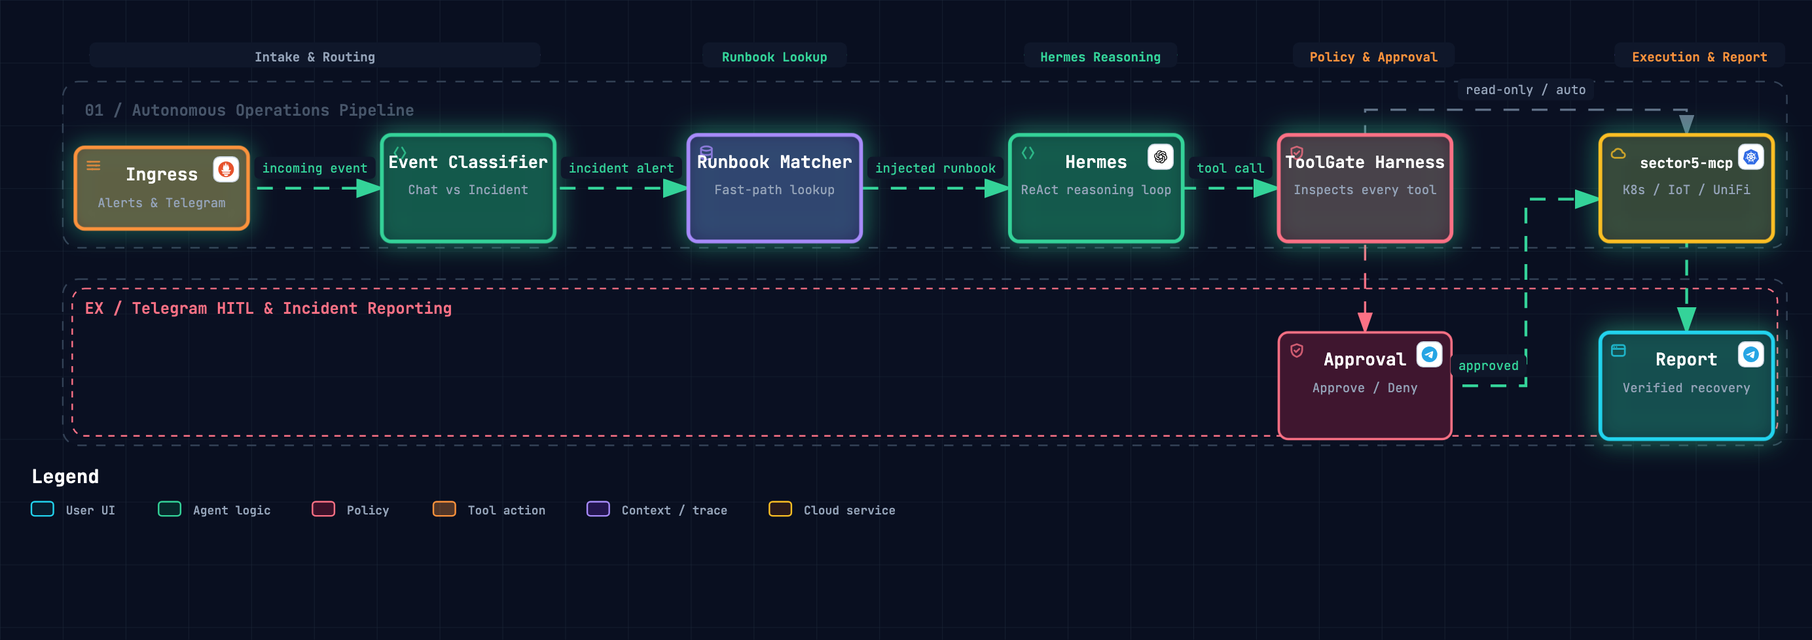
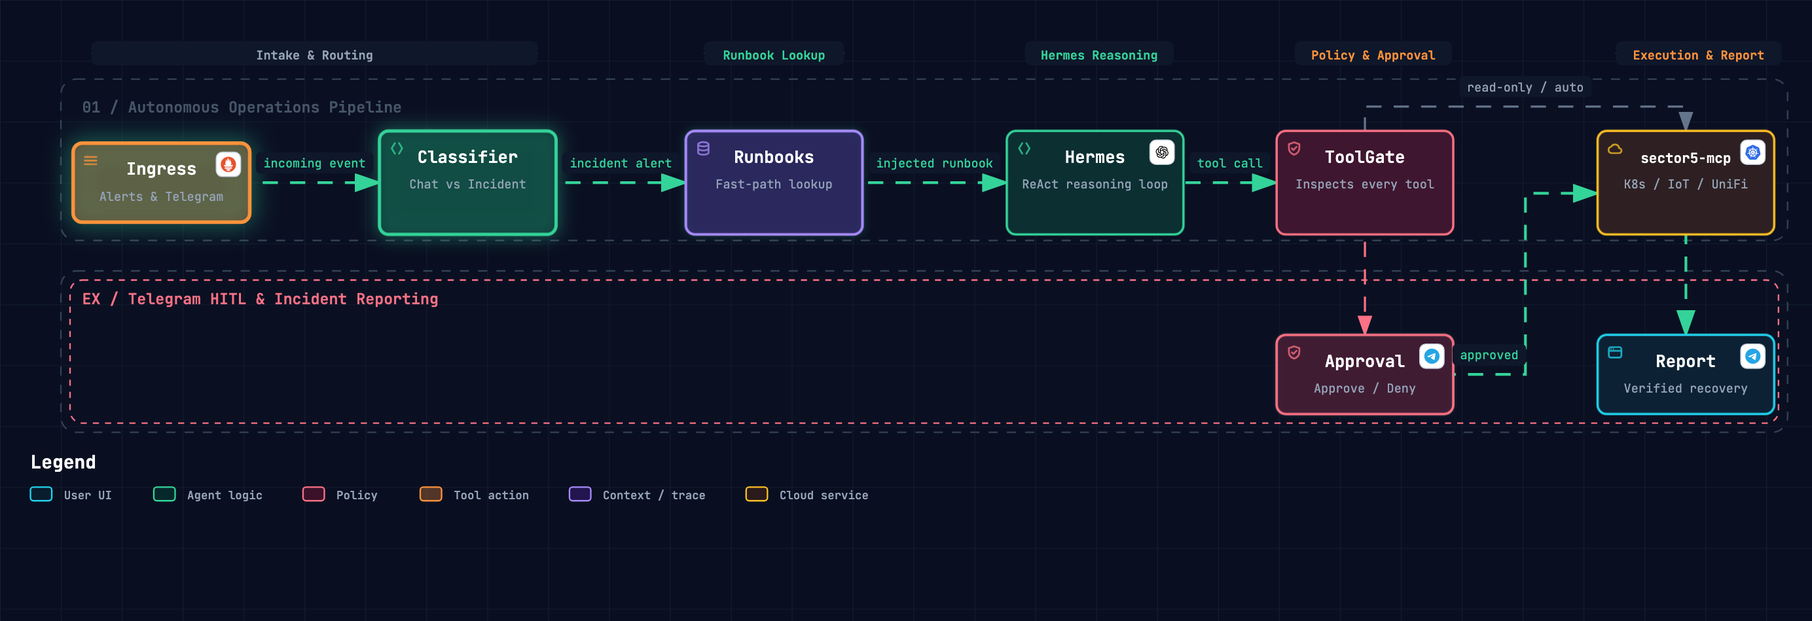
docs(diagrams): fix node text overlap and lane containment overflow

diff --git a/docs/diagrams/lyoko-workflow.html b/docs/diagrams/lyoko-workflow.html
@@ -5000,7 +5000,7 @@
     <!-- Main Diagram -->
     <div class="diagram-container" data-detail-level="read"
          data-preset-badge-editorial-plate="ARCHIFY / PLATE 04">
-      <svg viewBox="0 0 1154 408" role="img" lang="en" aria-labelledby="archify-diagram-title archify-diagram-description" data-animation="trace" data-preset="classic" data-quality-profile="showcase">
+      <svg viewBox="0 0 1190 408" role="img" lang="en" aria-labelledby="archify-diagram-title archify-diagram-description" data-animation="trace" data-preset="classic" data-quality-profile="showcase">
         <title id="archify-diagram-title">LYOKO Autonomous AIOps Workflow</title>
         <desc id="archify-diagram-description">A workflow diagram generated by Archify.</desc>
         <!-- Definitions -->
@@ -5026,199 +5026,197 @@
         <rect width="100%" height="100%" fill="url(#grid)" />
 
         <!-- Swimlanes -->
-        <rect data-graph-role="structural-frame" data-composition-frame-kind="lane" data-composition-frame-id="lane-0" x="40" y="52" width="1098" height="106" rx="10" class="c-lane" stroke-width="1"/>
+        <rect data-graph-role="structural-frame" data-composition-frame-kind="lane" data-composition-frame-id="lane-0" x="40" y="52" width="1134" height="106" rx="10" class="c-lane" stroke-width="1"/>
         <text x="54" y="74" class="t-dim" font-size="10" font-weight="600">01 / Autonomous Operations Pipeline</text>
 
-        <rect data-graph-role="structural-frame" data-composition-frame-kind="lane" data-composition-frame-id="lane-1" x="40" y="178" width="1098" height="106" rx="10" class="c-lane" stroke-width="1"/>
-        <rect data-graph-role="structural-frame" data-composition-frame-kind="exception-lane" data-composition-frame-id="lane-1-exception" x="46" y="184" width="1086" height="94" rx="8" class="c-security-group" stroke-width="1"/>
+        <rect data-graph-role="structural-frame" data-composition-frame-kind="lane" data-composition-frame-id="lane-1" x="40" y="178" width="1134" height="106" rx="10" class="c-lane" stroke-width="1"/>
+        <rect data-graph-role="structural-frame" data-composition-frame-kind="exception-lane" data-composition-frame-id="lane-1-exception" x="46" y="184" width="1122" height="94" rx="8" class="c-security-group" stroke-width="1"/>
         <text x="54" y="200" class="t-security" font-size="10" font-weight="600">EX / Telegram HITL &amp; Incident Reporting</text>
 
         <!-- Phase headers -->
-        <line x1="57" y1="35" x2="344.2" y2="35" class="a-default" stroke-width="1.1"/>
-        <rect x="57" y="27" width="287.2" height="16" rx="4" class="c-mask"/>
-        <text x="200.6" y="39" class="t-muted" font-size="8" font-weight="600" text-anchor="middle">Intake &amp; Routing</text>
-        <line x1="447.4" y1="35" x2="539.4" y2="35" class="a-emphasis" stroke-width="1.1"/>
-        <rect x="447.4" y="27" width="92" height="16" rx="4" class="c-mask"/>
-        <text x="493.4" y="39" class="t-backend" font-size="8" font-weight="600" text-anchor="middle">Runbook Lookup</text>
-        <line x1="652.2" y1="35" x2="749.8000000000001" y2="35" class="a-emphasis" stroke-width="1.1"/>
-        <rect x="652.2" y="27" width="97.6" height="16" rx="4" class="c-mask"/>
-        <text x="701" y="39" class="t-backend" font-size="8" font-weight="600" text-anchor="middle">Hermes Reasoning</text>
-        <line x1="823.4000000000001" y1="35" x2="926.6000000000001" y2="35" class="a-dashed" stroke-width="1.1"/>
-        <rect x="823.4000000000001" y="27" width="103.19999999999999" height="16" rx="4" class="c-mask"/>
-        <text x="875.0000000000001" y="39" class="t-messagebus" font-size="8" font-weight="600" text-anchor="middle">Policy &amp; Approval</text>
-        <line x1="1028.2" y1="35" x2="1137" y2="35" class="a-dashed" stroke-width="1.1"/>
-        <rect x="1028.2" y="27" width="108.8" height="16" rx="4" class="c-mask"/>
-        <text x="1082.6000000000001" y="39" class="t-messagebus" font-size="8" font-weight="600" text-anchor="middle">Execution &amp; Report</text>
+        <line x1="60" y1="35" x2="353.2" y2="35" class="a-default" stroke-width="1.1"/>
+        <rect x="60" y="27" width="293.2" height="16" rx="4" class="c-mask"/>
+        <text x="206.6" y="39" class="t-muted" font-size="8" font-weight="600" text-anchor="middle">Intake &amp; Routing</text>
+        <line x1="462.4" y1="35" x2="554.4" y2="35" class="a-emphasis" stroke-width="1.1"/>
+        <rect x="462.4" y="27" width="92" height="16" rx="4" class="c-mask"/>
+        <text x="508.4" y="39" class="t-backend" font-size="8" font-weight="600" text-anchor="middle">Runbook Lookup</text>
+        <line x1="673.2" y1="35" x2="770.8000000000001" y2="35" class="a-emphasis" stroke-width="1.1"/>
+        <rect x="673.2" y="27" width="97.6" height="16" rx="4" class="c-mask"/>
+        <text x="722" y="39" class="t-backend" font-size="8" font-weight="600" text-anchor="middle">Hermes Reasoning</text>
+        <line x1="850.4000000000001" y1="35" x2="953.6000000000001" y2="35" class="a-dashed" stroke-width="1.1"/>
+        <rect x="850.4000000000001" y="27" width="103.19999999999999" height="16" rx="4" class="c-mask"/>
+        <text x="902.0000000000001" y="39" class="t-messagebus" font-size="8" font-weight="600" text-anchor="middle">Policy &amp; Approval</text>
+        <line x1="1061.2" y1="35" x2="1170" y2="35" class="a-dashed" stroke-width="1.1"/>
+        <rect x="1061.2" y="27" width="108.8" height="16" rx="4" class="c-mask"/>
+        <text x="1115.6000000000001" y="39" class="t-messagebus" font-size="8" font-weight="600" text-anchor="middle">Execution &amp; Report</text>
 
         <!-- Workflow groups -->
 
 
         <!-- Edge paths -->
-        <path data-edge-from="approval" data-edge-to="mcp_gateway" data-edge-label="approved" data-edge-key="0" data-edge-id="e_approved" data-composition-points="924.4000000000001,246;971.8000000000001,246;971.8000000000001,127;1019.2,127" d="M 924.4000000000001 246 L 971.8000000000001 246 L 971.8000000000001 127 L 1019.2 127" class="a-emphasis" data-animate="edge" style="--step:7" stroke-width="1.8" marker-end="url(#arrowhead-emphasis)"/>
-        <path data-edge-from="event_in" data-edge-to="router" data-edge-label="incoming event" data-edge-key="1" data-edge-id="e_ingress" data-composition-points="158,120;243.2,120" d="M 158 120 L 243.2 120" class="a-emphasis" data-animate="edge" style="--step:0" stroke-width="1.8" marker-end="url(#arrowhead-emphasis)"/>
-        <path data-edge-from="toolgate" data-edge-to="approval" data-edge-key="2" data-edge-id="e_needs_approval" data-composition-points="869.4000000000001,154;869.4000000000001,212" d="M 869.4000000000001 154 L 869.4000000000001 212" class="a-security" data-animate="edge" style="--step:9" stroke-width="1.4" marker-end="url(#arrowhead-security)"/>
-        <path data-edge-from="toolgate" data-edge-to="mcp_gateway" data-edge-label="read-only / auto" data-edge-key="3" data-edge-id="e_readonly" data-composition-points="869.4000000000001,86;869.4000000000001,70;1074.2,70;1074.2,86" d="M 869.4000000000001 86 L 869.4000000000001 70 L 1074.2 70 L 1074.2 86" class="a-default" data-animate="edge" style="--step:4" stroke-width="1.4" marker-end="url(#arrowhead)"/>
-        <path data-edge-from="mcp_gateway" data-edge-to="report" data-edge-key="4" data-edge-id="e_report" data-composition-points="1074.2,154;1074.2,212" d="M 1074.2 154 L 1074.2 212" class="a-emphasis" data-animate="edge" style="--step:5" stroke-width="1.8" marker-end="url(#arrowhead-emphasis)"/>
-        <path data-edge-from="runbooks" data-edge-to="hermes" data-edge-label="injected runbook" data-edge-key="5" data-edge-id="e_runbook" data-composition-points="548.4,120;643.2,120" d="M 548.4 120 L 643.2 120" class="a-emphasis" data-animate="edge" style="--step:2" stroke-width="1.8" marker-end="url(#arrowhead-emphasis)"/>
-        <path data-edge-from="hermes" data-edge-to="toolgate" data-edge-label="tool call" data-edge-key="6" data-edge-id="e_toolcall" data-composition-points="753.2,120;814.4000000000001,120" d="M 753.2 120 L 814.4000000000001 120" class="a-emphasis" data-animate="edge" style="--step:3" stroke-width="1.8" marker-end="url(#arrowhead-emphasis)"/>
-        <path data-edge-from="router" data-edge-to="runbooks" data-edge-label="incident alert" data-edge-key="7" data-edge-id="e_triage" data-composition-points="353.2,120;438.4,120" d="M 353.2 120 L 438.4 120" class="a-emphasis" data-animate="edge" style="--step:1" stroke-width="1.8" marker-end="url(#arrowhead-emphasis)"/>
+        <path data-edge-from="approval" data-edge-to="mcp_gateway" data-edge-label="approved" data-edge-key="0" data-edge-id="e_approved" data-composition-points="954.4000000000001,246;1001.8000000000001,246;1001.8000000000001,127;1049.2,127" d="M 954.4000000000001 246 L 1001.8000000000001 246 L 1001.8000000000001 127 L 1049.2 127" class="a-emphasis" data-animate="edge" style="--step:7" stroke-width="1.8" marker-end="url(#arrowhead-emphasis)"/>
+        <path data-edge-from="event_in" data-edge-to="router" data-edge-label="incoming event" data-edge-key="1" data-edge-id="e_ingress" data-composition-points="164,120;249.2,120" d="M 164 120 L 249.2 120" class="a-emphasis" data-animate="edge" style="--step:0" stroke-width="1.8" marker-end="url(#arrowhead-emphasis)"/>
+        <path data-edge-from="toolgate" data-edge-to="approval" data-edge-key="2" data-edge-id="e_needs_approval" data-composition-points="896.4000000000001,154;896.4000000000001,220" d="M 896.4000000000001 154 L 896.4000000000001 220" class="a-security" data-animate="edge" style="--step:9" stroke-width="1.4" marker-end="url(#arrowhead-security)"/>
+        <path data-edge-from="toolgate" data-edge-to="mcp_gateway" data-edge-label="read-only / auto" data-edge-key="3" data-edge-id="e_readonly" data-composition-points="896.4000000000001,86;896.4000000000001,70;1107.2,70;1107.2,86" d="M 896.4000000000001 86 L 896.4000000000001 70 L 1107.2 70 L 1107.2 86" class="a-default" data-animate="edge" style="--step:4" stroke-width="1.4" marker-end="url(#arrowhead)"/>
+        <path data-edge-from="mcp_gateway" data-edge-to="report" data-edge-key="4" data-edge-id="e_report" data-composition-points="1107.2,154;1107.2,220" d="M 1107.2 154 L 1107.2 220" class="a-emphasis" data-animate="edge" style="--step:5" stroke-width="1.8" marker-end="url(#arrowhead-emphasis)"/>
+        <path data-edge-from="runbooks" data-edge-to="hermes" data-edge-label="injected runbook" data-edge-key="5" data-edge-id="e_runbook" data-composition-points="566.4,120;661.2,120" d="M 566.4 120 L 661.2 120" class="a-emphasis" data-animate="edge" style="--step:2" stroke-width="1.8" marker-end="url(#arrowhead-emphasis)"/>
+        <path data-edge-from="hermes" data-edge-to="toolgate" data-edge-label="tool call" data-edge-key="6" data-edge-id="e_toolcall" data-composition-points="777.2,120;838.4000000000001,120" d="M 777.2 120 L 838.4000000000001 120" class="a-emphasis" data-animate="edge" style="--step:3" stroke-width="1.8" marker-end="url(#arrowhead-emphasis)"/>
+        <path data-edge-from="router" data-edge-to="runbooks" data-edge-label="incident alert" data-edge-key="7" data-edge-id="e_triage" data-composition-points="365.2,120;450.4,120" d="M 365.2 120 L 450.4 120" class="a-emphasis" data-animate="edge" style="--step:1" stroke-width="1.8" marker-end="url(#arrowhead-emphasis)"/>
 
         <!-- Nodes -->
         <g id="node-event_in" data-node-id="event_in" data-node-label="Ingress" tabindex="0" role="button" aria-label="Focus Ingress, Alerts &amp; Telegram, Autonomous Operations Pipeline › Intake &amp; Routing, Prometheus" aria-pressed="false" data-node-kind="messagebus" data-node-sublabel="Alerts &amp; Telegram" data-node-context="Autonomous Operations Pipeline › Intake &amp; Routing" data-node-brand="Prometheus" data-node-brand-id="prometheus" data-node-brand-status="preset" data-node-brand-source="https://prometheus.io">
           <title>Ingress · Alerts &amp; Telegram · Autonomous Operations Pipeline › Intake &amp; Routing · Prometheus</title>
-          <rect x="48" y="94" width="110" height="52" rx="6" class="c-mask"/>
-          <rect x="48" y="94" width="110" height="52" rx="6" class="c-messagebus" data-animate="node" style="--step:0" stroke-width="1.5"/>
+          <rect x="48" y="94" width="116" height="52" rx="6" class="c-mask"/>
+          <rect x="48" y="94" width="116" height="52" rx="6" class="c-messagebus" data-animate="node" style="--step:0" stroke-width="1.5"/>
           <g aria-hidden="true" data-semantic-sigil="messagebus" class="semantic-sigil s-messagebus" transform="translate(54 100) scale(0.6875)">
             <path d="M2.5 4.5h11M2.5 8h11M2.5 11.5h11"/>
             <circle cx="5" cy="4.5" r="1" class="sigil-fill"/>
             <circle cx="10.5" cy="8" r="1" class="sigil-fill"/>
             <circle cx="7" cy="11.5" r="1" class="sigil-fill"/>
           </g>
-          <g aria-hidden="true" data-brand-mark="prometheus" data-brand-title="Prometheus" data-brand-status="preset" data-brand-source="https://prometheus.io" class="brand-mark" transform="translate(136 100)">
+          <g aria-hidden="true" data-brand-mark="prometheus" data-brand-title="Prometheus" data-brand-status="preset" data-brand-source="https://prometheus.io" class="brand-mark" transform="translate(142 100)">
             <rect width="16" height="16" rx="4" class="brand-mark-badge"/>
             <path d="M12 0C5.373 0 0 5.372 0 12c0 6.627 5.373 12 12 12s12-5.373 12-12c0-6.628-5.373-12-12-12zm0 22.46c-1.885 0-3.414-1.26-3.414-2.814h6.828c0 1.553-1.528 2.813-3.414 2.813zm5.64-3.745H6.36v-2.046h11.28v2.046zm-.04-3.098H6.391c-.037-.043-.075-.086-.111-.13-1.155-1.401-1.427-2.133-1.69-2.879-.005-.025 1.4.287 2.395.511 0 0 .513.119 1.262.255-.72-.843-1.147-1.915-1.147-3.01 0-2.406 1.845-4.508 1.18-6.207.648.053 1.34 1.367 1.387 3.422.689-.951.977-2.69.977-3.755 0-1.103.727-2.385 1.454-2.429-.648 1.069.168 1.984.894 4.256.272.854.237 2.29.447 3.201.07-1.892.395-4.652 1.595-5.605-.529 1.2.079 2.702.494 3.424.671 1.164 1.078 2.047 1.078 3.716a4.642 4.642 0 01-1.11 2.996c.792-.149 1.34-.283 1.34-.283l2.573-.502s-.374 1.538-1.81 3.019z" transform="translate(3 3) scale(0.4166666666666667)" fill="#E6522C"/>
             <rect width="16" height="16" rx="4" class="brand-mark-frame"/>
           </g>
-          <text data-node-label="" data-detail-anchor="" x="103" y="115" class="t-primary" font-size="11" font-weight="600" text-anchor="middle">Ingress</text>
-          <text data-detail="context" x="103" y="132" class="t-muted" font-size="8" text-anchor="middle">Alerts &amp; Telegram</text>
+          <text data-node-label="" data-detail-anchor="" x="106" y="115" class="t-primary" font-size="11" font-weight="600" text-anchor="middle">Ingress</text>
+          <text data-detail="context" x="106" y="132" class="t-muted" font-size="8" text-anchor="middle">Alerts &amp; Telegram</text>
         </g>
 
-        <g id="node-router" data-node-id="router" data-node-label="Event Classifier" tabindex="0" role="button" aria-label="Focus Event Classifier, Chat vs Incident, Autonomous Operations Pipeline › Intake &amp; Routing" aria-pressed="false" data-node-kind="backend" data-node-sublabel="Chat vs Incident" data-node-tag="Deterministic / LLM" data-node-context="Autonomous Operations Pipeline › Intake &amp; Routing">
-          <title>Event Classifier · Chat vs Incident · Autonomous Operations Pipeline › Intake &amp; Routing · Deterministic / LLM</title>
-          <rect x="243.2" y="86" width="110" height="68" rx="6" class="c-mask"/>
-          <rect x="243.2" y="86" width="110" height="68" rx="6" class="c-backend" data-animate="node" style="--step:1" stroke-width="1.5"/>
-          <g aria-hidden="true" data-semantic-sigil="backend" class="semantic-sigil s-backend" transform="translate(249.2 92) scale(0.6875)">
+        <g id="node-router" data-node-id="router" data-node-label="Classifier" tabindex="0" role="button" aria-label="Focus Classifier, Chat vs Incident, Autonomous Operations Pipeline › Intake &amp; Routing" aria-pressed="false" data-node-kind="backend" data-node-sublabel="Chat vs Incident" data-node-tag="Deterministic / LLM" data-node-context="Autonomous Operations Pipeline › Intake &amp; Routing">
+          <title>Classifier · Chat vs Incident · Autonomous Operations Pipeline › Intake &amp; Routing · Deterministic / LLM</title>
+          <rect x="249.2" y="86" width="116" height="68" rx="6" class="c-mask"/>
+          <rect x="249.2" y="86" width="116" height="68" rx="6" class="c-backend" data-animate="node" style="--step:1" stroke-width="1.5"/>
+          <g aria-hidden="true" data-semantic-sigil="backend" class="semantic-sigil s-backend" transform="translate(255.2 92) scale(0.6875)">
             <path d="M6 3 3 8l3 5M10 3l3 5-3 5"/>
           </g>
-          <text data-node-label="" data-detail-anchor="" x="298.2" y="107" class="t-primary" font-size="10.6" font-weight="600" text-anchor="middle">Event Classifier</text>
-          <text data-detail="context" x="298.2" y="124" class="t-muted" font-size="8" text-anchor="middle">Chat vs Incident</text>
-        <text data-detail="fine" x="298.2" y="142" class="t-backend" font-size="7" text-anchor="middle">Deterministic / LLM</text>
+          <text data-node-label="" data-detail-anchor="" x="307.2" y="107" class="t-primary" font-size="11" font-weight="600" text-anchor="middle">Classifier</text>
+          <text data-detail="context" x="307.2" y="124" class="t-muted" font-size="8" text-anchor="middle">Chat vs Incident</text>
+        <text data-detail="fine" x="307.2" y="142" class="t-backend" font-size="7" text-anchor="middle">Deterministic / LLM</text>
         </g>
 
-        <g id="node-runbooks" data-node-id="runbooks" data-node-label="Runbook Matcher" tabindex="0" role="button" aria-label="Focus Runbook Matcher, Fast-path lookup, Autonomous Operations Pipeline › Runbook Lookup" aria-pressed="false" data-node-kind="database" data-node-sublabel="Fast-path lookup" data-node-tag="Zero-LLM" data-node-context="Autonomous Operations Pipeline › Runbook Lookup">
-          <title>Runbook Matcher · Fast-path lookup · Autonomous Operations Pipeline › Runbook Lookup · Zero-LLM</title>
-          <rect x="438.4" y="86" width="110" height="68" rx="6" class="c-mask"/>
-          <rect x="438.4" y="86" width="110" height="68" rx="6" class="c-database" data-animate="node" style="--step:2" stroke-width="1.5"/>
-          <g aria-hidden="true" data-semantic-sigil="database" class="semantic-sigil s-database" transform="translate(444.4 92) scale(0.6875)">
+        <g id="node-runbooks" data-node-id="runbooks" data-node-label="Runbooks" tabindex="0" role="button" aria-label="Focus Runbooks, Fast-path lookup, Autonomous Operations Pipeline › Runbook Lookup" aria-pressed="false" data-node-kind="database" data-node-sublabel="Fast-path lookup" data-node-tag="Zero-LLM" data-node-context="Autonomous Operations Pipeline › Runbook Lookup">
+          <title>Runbooks · Fast-path lookup · Autonomous Operations Pipeline › Runbook Lookup · Zero-LLM</title>
+          <rect x="450.4" y="86" width="116" height="68" rx="6" class="c-mask"/>
+          <rect x="450.4" y="86" width="116" height="68" rx="6" class="c-database" data-animate="node" style="--step:2" stroke-width="1.5"/>
+          <g aria-hidden="true" data-semantic-sigil="database" class="semantic-sigil s-database" transform="translate(456.4 92) scale(0.6875)">
             <ellipse cx="8" cy="4" rx="5" ry="2"/>
             <path d="M3 4v8c0 1.1 2.2 2 5 2s5-.9 5-2V4M3 8c0 1.1 2.2 2 5 2s5-.9 5-2"/>
           </g>
-          <text data-node-label="" data-detail-anchor="" x="493.4" y="107" class="t-primary" font-size="11" font-weight="600" text-anchor="middle">Runbook Matcher</text>
-          <text data-detail="context" x="493.4" y="124" class="t-muted" font-size="8" text-anchor="middle">Fast-path lookup</text>
-        <text data-detail="fine" x="493.4" y="142" class="t-database" font-size="7" text-anchor="middle">Zero-LLM</text>
+          <text data-node-label="" data-detail-anchor="" x="508.4" y="107" class="t-primary" font-size="11" font-weight="600" text-anchor="middle">Runbooks</text>
+          <text data-detail="context" x="508.4" y="124" class="t-muted" font-size="8" text-anchor="middle">Fast-path lookup</text>
+        <text data-detail="fine" x="508.4" y="142" class="t-database" font-size="7" text-anchor="middle">Zero-LLM</text>
         </g>
 
         <g id="node-hermes" data-node-id="hermes" data-node-label="Hermes" tabindex="0" role="button" aria-label="Focus Hermes, ReAct reasoning loop, Autonomous Operations Pipeline › Hermes Reasoning, OpenAI" aria-pressed="false" data-node-kind="backend" data-node-sublabel="ReAct reasoning loop" data-node-tag="Autonomous SRE" data-node-context="Autonomous Operations Pipeline › Hermes Reasoning" data-node-brand="OpenAI" data-node-brand-id="openai" data-node-brand-status="preset" data-node-brand-source="https://openai.com/brand/">
           <title>Hermes · ReAct reasoning loop · Autonomous Operations Pipeline › Hermes Reasoning · Autonomous SRE · OpenAI</title>
-          <rect x="643.2" y="86" width="110" height="68" rx="6" class="c-mask"/>
-          <rect x="643.2" y="86" width="110" height="68" rx="6" class="c-backend" data-animate="node" style="--step:3" stroke-width="1.5"/>
-          <g aria-hidden="true" data-semantic-sigil="backend" class="semantic-sigil s-backend" transform="translate(649.2 92) scale(0.6875)">
+          <rect x="661.2" y="86" width="116" height="68" rx="6" class="c-mask"/>
+          <rect x="661.2" y="86" width="116" height="68" rx="6" class="c-backend" data-animate="node" style="--step:3" stroke-width="1.5"/>
+          <g aria-hidden="true" data-semantic-sigil="backend" class="semantic-sigil s-backend" transform="translate(667.2 92) scale(0.6875)">
             <path d="M6 3 3 8l3 5M10 3l3 5-3 5"/>
           </g>
-          <g aria-hidden="true" data-brand-mark="openai" data-brand-title="OpenAI" data-brand-status="preset" data-brand-source="https://openai.com/brand/" class="brand-mark" transform="translate(731.2 92)">
+          <g aria-hidden="true" data-brand-mark="openai" data-brand-title="OpenAI" data-brand-status="preset" data-brand-source="https://openai.com/brand/" class="brand-mark" transform="translate(755.2 92)">
             <rect width="16" height="16" rx="4" class="brand-mark-badge"/>
             <path d="M11.248 18.25q-.825 0-1.568-.314a4.3 4.3 0 0 1-1.32-.874 4 4 0 0 1-1.304.214 4 4 0 0 1-2.046-.544 4.27 4.27 0 0 1-1.518-1.485 4 4 0 0 1-.56-2.095q0-.48.131-1.04A4.4 4.4 0 0 1 2.04 10.71a4.07 4.07 0 0 1 .017-3.4 4.2 4.2 0 0 1 1.056-1.418 3.8 3.8 0 0 1 1.6-.842 3.9 3.9 0 0 1 .76-1.683q.593-.759 1.451-1.188a4.04 4.04 0 0 1 1.832-.429q.825 0 1.567.313.742.314 1.32.875a4 4 0 0 1 1.304-.215q1.106 0 2.046.545a4.14 4.14 0 0 1 1.501 1.485q.578.941.578 2.095 0 .48-.132 1.04.66.61 1.023 1.419.363.792.363 1.666 0 .892-.38 1.717a4.3 4.3 0 0 1-1.072 1.435 3.8 3.8 0 0 1-1.584.825 3.8 3.8 0 0 1-.775 1.683 4.06 4.06 0 0 1-1.436 1.188 4.04 4.04 0 0 1-1.832.429m-4.076-2.062q.825 0 1.435-.347l3.103-1.782a.36.36 0 0 0 .164-.313v-1.42L7.881 14.62a.67.67 0 0 1-.726 0l-3.118-1.798a.5.5 0 0 1-.017.115v.198q0 .841.396 1.551.413.693 1.139 1.089a3.2 3.2 0 0 0 1.617.412m.165-2.69a.4.4 0 0 0 .181.05q.083 0 .165-.05l1.238-.71-3.977-2.31a.7.7 0 0 1-.363-.643v-3.58q-.825.362-1.32 1.122a2.9 2.9 0 0 0-.495 1.65q0 .809.413 1.55.412.743 1.072 1.123zm3.91 3.663q.875 0 1.585-.396a2.96 2.96 0 0 0 1.534-2.64v-3.564a.32.32 0 0 0-.165-.297l-1.254-.726v4.604a.7.7 0 0 1-.363.643l-3.119 1.799a3 3 0 0 0 1.783.577m.627-6.039V8.878L10.01 7.822 8.129 8.878v2.244l1.881 1.056zM7.057 5.859a.7.7 0 0 1 .363-.644l3.119-1.798a3 3 0 0 0-1.782-.578q-.874 0-1.584.396A2.96 2.96 0 0 0 6.05 4.324a3.07 3.07 0 0 0-.396 1.551v3.547q0 .199.165.314l1.237.726zm8.383 7.887q.825-.364 1.303-1.123.495-.758.495-1.65a3.15 3.15 0 0 0-.412-1.55q-.413-.743-1.073-1.123l-3.086-1.782q-.099-.065-.181-.049a.3.3 0 0 0-.165.05l-1.238.692 3.993 2.327a.6.6 0 0 1 .264.264.64.64 0 0 1 .1.363zm-3.317-8.382a.63.63 0 0 1 .726 0l3.135 1.831v-.297q0-.792-.396-1.501a2.86 2.86 0 0 0-1.105-1.155q-.71-.43-1.65-.43-.825 0-1.436.347L8.294 5.941a.36.36 0 0 0-.165.314v1.418z" transform="translate(3 3) scale(0.5)" fill="#000000"/>
             <rect width="16" height="16" rx="4" class="brand-mark-frame"/>
           </g>
-          <text data-node-label="" data-detail-anchor="" x="698.2" y="107" class="t-primary" font-size="11" font-weight="600" text-anchor="middle">Hermes</text>
-          <text data-detail="context" x="698.2" y="124" class="t-muted" font-size="8" text-anchor="middle">ReAct reasoning loop</text>
-        <text data-detail="fine" x="698.2" y="142" class="t-backend" font-size="7" text-anchor="middle">Autonomous SRE</text>
+          <text data-node-label="" data-detail-anchor="" x="719.2" y="107" class="t-primary" font-size="11" font-weight="600" text-anchor="middle">Hermes</text>
+          <text data-detail="context" x="719.2" y="124" class="t-muted" font-size="8" text-anchor="middle">ReAct reasoning loop</text>
+        <text data-detail="fine" x="719.2" y="142" class="t-backend" font-size="7" text-anchor="middle">Autonomous SRE</text>
         </g>
 
-        <g id="node-toolgate" data-node-id="toolgate" data-node-label="ToolGate Harness" tabindex="0" role="button" aria-label="Focus ToolGate Harness, Inspects every tool, Autonomous Operations Pipeline › Policy &amp; Approval" aria-pressed="false" data-node-kind="security" data-node-sublabel="Inspects every tool" data-node-tag="Fail-closed" data-node-context="Autonomous Operations Pipeline › Policy &amp; Approval">
-          <title>ToolGate Harness · Inspects every tool · Autonomous Operations Pipeline › Policy &amp; Approval · Fail-closed</title>
-          <rect x="814.4000000000001" y="86" width="110" height="68" rx="6" class="c-mask"/>
-          <rect x="814.4000000000001" y="86" width="110" height="68" rx="6" class="c-security" data-animate="node" style="--step:4" stroke-width="1.5"/>
-          <g aria-hidden="true" data-semantic-sigil="security" class="semantic-sigil s-security" transform="translate(820.4000000000001 92) scale(0.6875)">
+        <g id="node-toolgate" data-node-id="toolgate" data-node-label="ToolGate" tabindex="0" role="button" aria-label="Focus ToolGate, Inspects every tool, Autonomous Operations Pipeline › Policy &amp; Approval" aria-pressed="false" data-node-kind="security" data-node-sublabel="Inspects every tool" data-node-tag="Fail-closed" data-node-context="Autonomous Operations Pipeline › Policy &amp; Approval">
+          <title>ToolGate · Inspects every tool · Autonomous Operations Pipeline › Policy &amp; Approval · Fail-closed</title>
+          <rect x="838.4000000000001" y="86" width="116" height="68" rx="6" class="c-mask"/>
+          <rect x="838.4000000000001" y="86" width="116" height="68" rx="6" class="c-security" data-animate="node" style="--step:4" stroke-width="1.5"/>
+          <g aria-hidden="true" data-semantic-sigil="security" class="semantic-sigil s-security" transform="translate(844.4000000000001 92) scale(0.6875)">
             <path d="M8 2.2 13 4v3.5c0 3.1-1.8 5.4-5 6.5-3.2-1.1-5-3.4-5-6.5V4Z"/>
             <path d="m5.8 8 1.5 1.5 3-3"/>
           </g>
-          <text data-node-label="" data-detail-anchor="" x="869.4000000000001" y="107" class="t-primary" font-size="10.6" font-weight="600" text-anchor="middle">ToolGate Harness</text>
-          <text data-detail="context" x="869.4000000000001" y="124" class="t-muted" font-size="8" text-anchor="middle">Inspects every tool</text>
-        <text data-detail="fine" x="869.4000000000001" y="142" class="t-security" font-size="7" text-anchor="middle">Fail-closed</text>
+          <text data-node-label="" data-detail-anchor="" x="896.4000000000001" y="107" class="t-primary" font-size="11" font-weight="600" text-anchor="middle">ToolGate</text>
+          <text data-detail="context" x="896.4000000000001" y="124" class="t-muted" font-size="8" text-anchor="middle">Inspects every tool</text>
+        <text data-detail="fine" x="896.4000000000001" y="142" class="t-security" font-size="7" text-anchor="middle">Fail-closed</text>
         </g>
 
         <g id="node-mcp_gateway" data-node-id="mcp_gateway" data-node-label="sector5-mcp" tabindex="0" role="button" aria-label="Focus sector5-mcp, K8s / IoT / UniFi, Autonomous Operations Pipeline › Execution &amp; Report, Kubernetes" aria-pressed="false" data-node-kind="cloud" data-node-sublabel="K8s / IoT / UniFi" data-node-tag="Unified gateway" data-node-context="Autonomous Operations Pipeline › Execution &amp; Report" data-node-brand="Kubernetes" data-node-brand-id="kubernetes" data-node-brand-status="preset" data-node-brand-source="https://github.com/kubernetes/kubernetes/tree/cac53883f4714452f3084a22e4be20d042a9df33/logo">
           <title>sector5-mcp · K8s / IoT / UniFi · Autonomous Operations Pipeline › Execution &amp; Report · Unified gateway · Kubernetes</title>
-          <rect x="1019.2" y="86" width="110" height="68" rx="6" class="c-mask"/>
-          <rect x="1019.2" y="86" width="110" height="68" rx="6" class="c-cloud" data-animate="node" style="--step:5" stroke-width="1.5"/>
-          <g aria-hidden="true" data-semantic-sigil="cloud" class="semantic-sigil s-cloud" transform="translate(1025.2 92) scale(0.6875)">
+          <rect x="1049.2" y="86" width="116" height="68" rx="6" class="c-mask"/>
+          <rect x="1049.2" y="86" width="116" height="68" rx="6" class="c-cloud" data-animate="node" style="--step:5" stroke-width="1.5"/>
+          <g aria-hidden="true" data-semantic-sigil="cloud" class="semantic-sigil s-cloud" transform="translate(1055.2 92) scale(0.6875)">
             <path d="M4.3 12.5h7.3a2.4 2.4 0 0 0 .2-4.8 4 4 0 0 0-7.5-1.3A3.1 3.1 0 0 0 4.3 12.5Z"/>
           </g>
-          <g aria-hidden="true" data-brand-mark="kubernetes" data-brand-title="Kubernetes" data-brand-status="preset" data-brand-source="https://github.com/kubernetes/kubernetes/tree/cac53883f4714452f3084a22e4be20d042a9df33/logo" class="brand-mark" transform="translate(1107.2 92)">
+          <g aria-hidden="true" data-brand-mark="kubernetes" data-brand-title="Kubernetes" data-brand-status="preset" data-brand-source="https://github.com/kubernetes/kubernetes/tree/cac53883f4714452f3084a22e4be20d042a9df33/logo" class="brand-mark" transform="translate(1143.2 92)">
             <rect width="16" height="16" rx="4" class="brand-mark-badge"/>
             <path d="M10.204 14.35l.007.01-.999 2.413a5.171 5.171 0 0 1-2.075-2.597l2.578-.437.004.005a.44.44 0 0 1 .484.606zm-.833-2.129a.44.44 0 0 0 .173-.756l.002-.011L7.585 9.7a5.143 5.143 0 0 0-.73 3.255l2.514-.725.002-.009zm1.145-1.98a.44.44 0 0 0 .699-.337l.01-.005.15-2.62a5.144 5.144 0 0 0-3.01 1.442l2.147 1.523.004-.002zm.76 2.75l.723.349.722-.347.18-.78-.5-.623h-.804l-.5.623.179.779zm1.5-3.095a.44.44 0 0 0 .7.336l.008.003 2.134-1.513a5.188 5.188 0 0 0-2.992-1.442l.148 2.615.002.001zm10.876 5.97l-5.773 7.181a1.6 1.6 0 0 1-1.248.594l-9.261.003a1.6 1.6 0 0 1-1.247-.596l-5.776-7.18a1.583 1.583 0 0 1-.307-1.34L2.1 5.573c.108-.47.425-.864.863-1.073L11.305.513a1.606 1.606 0 0 1 1.385 0l8.345 3.985c.438.209.755.604.863 1.073l2.062 8.955c.108.47-.005.963-.308 1.34zm-3.289-2.057c-.042-.01-.103-.026-.145-.034-.174-.033-.315-.025-.479-.038-.35-.037-.638-.067-.895-.148-.105-.04-.18-.165-.216-.216l-.201-.059a6.45 6.45 0 0 0-.105-2.332 6.465 6.465 0 0 0-.936-2.163c.052-.047.15-.133.177-.159.008-.09.001-.183.094-.282.197-.185.444-.338.743-.522.142-.084.273-.137.415-.242.032-.024.076-.062.11-.089.24-.191.295-.52.123-.736-.172-.216-.506-.236-.745-.045-.034.027-.08.062-.111.088-.134.116-.217.23-.33.35-.246.25-.45.458-.673.609-.097.056-.239.037-.303.033l-.19.135a6.545 6.545 0 0 0-4.146-2.003l-.012-.223c-.065-.062-.143-.115-.163-.25-.022-.268.015-.557.057-.905.023-.163.061-.298.068-.475.001-.04-.001-.099-.001-.142 0-.306-.224-.555-.5-.555-.275 0-.499.249-.499.555l.001.014c0 .041-.002.092 0 .128.006.177.044.312.067.475.042.348.078.637.056.906a.545.545 0 0 1-.162.258l-.012.211a6.424 6.424 0 0 0-4.166 2.003 8.373 8.373 0 0 1-.18-.128c-.09.012-.18.04-.297-.029-.223-.15-.427-.358-.673-.608-.113-.12-.195-.234-.329-.349-.03-.026-.077-.062-.111-.088a.594.594 0 0 0-.348-.132.481.481 0 0 0-.398.176c-.172.216-.117.546.123.737l.007.005.104.083c.142.105.272.159.414.242.299.185.546.338.743.522.076.082.09.226.1.288l.16.143a6.462 6.462 0 0 0-1.02 4.506l-.208.06c-.055.072-.133.184-.215.217-.257.081-.546.11-.895.147-.164.014-.305.006-.48.039-.037.007-.09.02-.133.03l-.004.002-.007.002c-.295.071-.484.342-.423.608.061.267.349.429.645.365l.007-.001.01-.003.129-.029c.17-.046.294-.113.448-.172.33-.118.604-.217.87-.256.112-.009.23.069.288.101l.217-.037a6.5 6.5 0 0 0 2.88 3.596l-.09.218c.033.084.069.199.044.282-.097.252-.263.517-.452.813-.091.136-.185.242-.268.399-.02.037-.045.095-.064.134-.128.275-.034.591.213.71.248.12.556-.007.69-.282v-.002c.02-.039.046-.09.062-.127.07-.162.094-.301.144-.458.132-.332.205-.68.387-.897.05-.06.13-.082.215-.105l.113-.205a6.453 6.453 0 0 0 4.609.012l.106.192c.086.028.18.042.256.155.136.232.229.507.342.84.05.156.074.295.145.457.016.037.043.09.062.129.133.276.442.402.69.282.247-.118.341-.435.213-.71-.02-.039-.045-.096-.065-.134-.083-.156-.177-.261-.268-.398-.19-.296-.346-.541-.443-.793-.04-.13.007-.21.038-.294-.018-.022-.059-.144-.083-.202a6.499 6.499 0 0 0 2.88-3.622c.064.01.176.03.213.038.075-.05.144-.114.28-.104.266.039.54.138.87.256.154.06.277.128.448.173.036.01.088.019.13.028l.009.003.007.001c.297.064.584-.098.645-.365.06-.266-.128-.537-.423-.608zM16.4 9.701l-1.95 1.746v.005a.44.44 0 0 0 .173.757l.003.01 2.526.728a5.199 5.199 0 0 0-.108-1.674A5.208 5.208 0 0 0 16.4 9.7zm-4.013 5.325a.437.437 0 0 0-.404-.232.44.44 0 0 0-.372.233h-.002l-1.268 2.292a5.164 5.164 0 0 0 3.326.003l-1.27-2.296h-.01zm1.888-1.293a.44.44 0 0 0-.27.036.44.44 0 0 0-.214.572l-.003.004 1.01 2.438a5.15 5.15 0 0 0 2.081-2.615l-2.6-.44-.004.005z" transform="translate(3 3) scale(0.4166666666666667)" fill="#326CE5"/>
             <rect width="16" height="16" rx="4" class="brand-mark-frame"/>
           </g>
-          <text data-node-label="" data-detail-anchor="" x="1074.2" y="107" class="t-primary" font-size="9" font-weight="600" text-anchor="middle">sector5-mcp</text>
-          <text data-detail="context" x="1074.2" y="124" class="t-muted" font-size="8" text-anchor="middle">K8s / IoT / UniFi</text>
-        <text data-detail="fine" x="1074.2" y="142" class="t-cloud" font-size="7" text-anchor="middle">Unified gateway</text>
+          <text data-node-label="" data-detail-anchor="" x="1107.2" y="107" class="t-primary" font-size="9" font-weight="600" text-anchor="middle">sector5-mcp</text>
+          <text data-detail="context" x="1107.2" y="124" class="t-muted" font-size="8" text-anchor="middle">K8s / IoT / UniFi</text>
+        <text data-detail="fine" x="1107.2" y="142" class="t-cloud" font-size="7" text-anchor="middle">Unified gateway</text>
         </g>
 
-        <g id="node-approval" data-node-id="approval" data-node-label="Approval" tabindex="0" role="button" aria-label="Focus Approval, Approve / Deny, Telegram HITL &amp; Incident Reporting › Policy &amp; Approval, Telegram" aria-pressed="false" data-node-kind="security" data-node-sublabel="Approve / Deny" data-node-tag="Operator buttons" data-node-context="Telegram HITL &amp; Incident Reporting › Policy &amp; Approval" data-node-brand="Telegram" data-node-brand-id="telegram" data-node-brand-status="preset" data-node-brand-source="https://telegram.org/tour/screenshots">
-          <title>Approval · Approve / Deny · Telegram HITL &amp; Incident Reporting › Policy &amp; Approval · Operator buttons · Telegram</title>
-          <rect x="814.4000000000001" y="212" width="110" height="68" rx="6" class="c-mask"/>
-          <rect x="814.4000000000001" y="212" width="110" height="68" rx="6" class="c-security" data-animate="node" style="--step:12" stroke-width="1.5"/>
-          <g aria-hidden="true" data-semantic-sigil="security" class="semantic-sigil s-security" transform="translate(820.4000000000001 218) scale(0.6875)">
+        <g id="node-approval" data-node-id="approval" data-node-label="Approval" tabindex="0" role="button" aria-label="Focus Approval, Approve / Deny, Telegram HITL &amp; Incident Reporting › Policy &amp; Approval, Telegram" aria-pressed="false" data-node-kind="security" data-node-sublabel="Approve / Deny" data-node-context="Telegram HITL &amp; Incident Reporting › Policy &amp; Approval" data-node-brand="Telegram" data-node-brand-id="telegram" data-node-brand-status="preset" data-node-brand-source="https://telegram.org/tour/screenshots">
+          <title>Approval · Approve / Deny · Telegram HITL &amp; Incident Reporting › Policy &amp; Approval · Telegram</title>
+          <rect x="838.4000000000001" y="220" width="116" height="52" rx="6" class="c-mask"/>
+          <rect x="838.4000000000001" y="220" width="116" height="52" rx="6" class="c-security" data-animate="node" style="--step:12" stroke-width="1.5"/>
+          <g aria-hidden="true" data-semantic-sigil="security" class="semantic-sigil s-security" transform="translate(844.4000000000001 226) scale(0.6875)">
             <path d="M8 2.2 13 4v3.5c0 3.1-1.8 5.4-5 6.5-3.2-1.1-5-3.4-5-6.5V4Z"/>
             <path d="m5.8 8 1.5 1.5 3-3"/>
           </g>
-          <g aria-hidden="true" data-brand-mark="telegram" data-brand-title="Telegram" data-brand-status="preset" data-brand-source="https://telegram.org/tour/screenshots" class="brand-mark" transform="translate(902.4000000000001 218)">
+          <g aria-hidden="true" data-brand-mark="telegram" data-brand-title="Telegram" data-brand-status="preset" data-brand-source="https://telegram.org/tour/screenshots" class="brand-mark" transform="translate(932.4000000000001 226)">
             <rect width="16" height="16" rx="4" class="brand-mark-badge"/>
             <path d="M11.944 0A12 12 0 0 0 0 12a12 12 0 0 0 12 12 12 12 0 0 0 12-12A12 12 0 0 0 12 0a12 12 0 0 0-.056 0zm4.962 7.224c.1-.002.321.023.465.14a.506.506 0 0 1 .171.325c.016.093.036.306.02.472-.18 1.898-.962 6.502-1.36 8.627-.168.9-.499 1.201-.82 1.23-.696.065-1.225-.46-1.9-.902-1.056-.693-1.653-1.124-2.678-1.8-1.185-.78-.417-1.21.258-1.91.177-.184 3.247-2.977 3.307-3.23.007-.032.014-.15-.056-.212s-.174-.041-.249-.024c-.106.024-1.793 1.14-5.061 3.345-.48.33-.913.49-1.302.48-.428-.008-1.252-.241-1.865-.44-.752-.245-1.349-.374-1.297-.789.027-.216.325-.437.893-.663 3.498-1.524 5.83-2.529 6.998-3.014 3.332-1.386 4.025-1.627 4.476-1.635z" transform="translate(3 3) scale(0.4166666666666667)" fill="#26A5E4"/>
             <rect width="16" height="16" rx="4" class="brand-mark-frame"/>
           </g>
-          <text data-node-label="" data-detail-anchor="" x="869.4000000000001" y="233" class="t-primary" font-size="11" font-weight="600" text-anchor="middle">Approval</text>
-          <text data-detail="context" x="869.4000000000001" y="250" class="t-muted" font-size="8" text-anchor="middle">Approve / Deny</text>
-        <text data-detail="fine" x="869.4000000000001" y="268" class="t-security" font-size="7" text-anchor="middle">Operator buttons</text>
+          <text data-node-label="" data-detail-anchor="" x="896.4000000000001" y="241" class="t-primary" font-size="11" font-weight="600" text-anchor="middle">Approval</text>
+          <text data-detail="context" x="896.4000000000001" y="258" class="t-muted" font-size="8" text-anchor="middle">Approve / Deny</text>
         </g>
 
-        <g id="node-report" data-node-id="report" data-node-label="Report" tabindex="0" role="button" aria-label="Focus Report, Verified recovery, Telegram HITL &amp; Incident Reporting › Execution &amp; Report, Telegram" aria-pressed="false" data-node-kind="frontend" data-node-sublabel="Verified recovery" data-node-tag="Langfuse trace" data-node-context="Telegram HITL &amp; Incident Reporting › Execution &amp; Report" data-node-brand="Telegram" data-node-brand-id="telegram" data-node-brand-status="preset" data-node-brand-source="https://telegram.org/tour/screenshots">
-          <title>Report · Verified recovery · Telegram HITL &amp; Incident Reporting › Execution &amp; Report · Langfuse trace · Telegram</title>
-          <rect x="1019.2" y="212" width="110" height="68" rx="6" class="c-mask"/>
-          <rect x="1019.2" y="212" width="110" height="68" rx="6" class="c-frontend" data-animate="node" style="--step:6" stroke-width="1.5"/>
-          <g aria-hidden="true" data-semantic-sigil="frontend" class="semantic-sigil s-frontend" transform="translate(1025.2 218) scale(0.6875)">
+        <g id="node-report" data-node-id="report" data-node-label="Report" tabindex="0" role="button" aria-label="Focus Report, Verified recovery, Telegram HITL &amp; Incident Reporting › Execution &amp; Report, Telegram" aria-pressed="false" data-node-kind="frontend" data-node-sublabel="Verified recovery" data-node-context="Telegram HITL &amp; Incident Reporting › Execution &amp; Report" data-node-brand="Telegram" data-node-brand-id="telegram" data-node-brand-status="preset" data-node-brand-source="https://telegram.org/tour/screenshots">
+          <title>Report · Verified recovery · Telegram HITL &amp; Incident Reporting › Execution &amp; Report · Telegram</title>
+          <rect x="1049.2" y="220" width="116" height="52" rx="6" class="c-mask"/>
+          <rect x="1049.2" y="220" width="116" height="52" rx="6" class="c-frontend" data-animate="node" style="--step:6" stroke-width="1.5"/>
+          <g aria-hidden="true" data-semantic-sigil="frontend" class="semantic-sigil s-frontend" transform="translate(1055.2 226) scale(0.6875)">
             <rect x="2" y="3" width="12" height="10" rx="2"/>
             <path d="M2 6.5h12"/>
             <circle cx="4.1" cy="4.8" r=".7" class="sigil-fill"/>
             <circle cx="6.3" cy="4.8" r=".7" class="sigil-fill"/>
           </g>
-          <g aria-hidden="true" data-brand-mark="telegram" data-brand-title="Telegram" data-brand-status="preset" data-brand-source="https://telegram.org/tour/screenshots" class="brand-mark" transform="translate(1107.2 218)">
+          <g aria-hidden="true" data-brand-mark="telegram" data-brand-title="Telegram" data-brand-status="preset" data-brand-source="https://telegram.org/tour/screenshots" class="brand-mark" transform="translate(1143.2 226)">
             <rect width="16" height="16" rx="4" class="brand-mark-badge"/>
             <path d="M11.944 0A12 12 0 0 0 0 12a12 12 0 0 0 12 12 12 12 0 0 0 12-12A12 12 0 0 0 12 0a12 12 0 0 0-.056 0zm4.962 7.224c.1-.002.321.023.465.14a.506.506 0 0 1 .171.325c.016.093.036.306.02.472-.18 1.898-.962 6.502-1.36 8.627-.168.9-.499 1.201-.82 1.23-.696.065-1.225-.46-1.9-.902-1.056-.693-1.653-1.124-2.678-1.8-1.185-.78-.417-1.21.258-1.91.177-.184 3.247-2.977 3.307-3.23.007-.032.014-.15-.056-.212s-.174-.041-.249-.024c-.106.024-1.793 1.14-5.061 3.345-.48.33-.913.49-1.302.48-.428-.008-1.252-.241-1.865-.44-.752-.245-1.349-.374-1.297-.789.027-.216.325-.437.893-.663 3.498-1.524 5.83-2.529 6.998-3.014 3.332-1.386 4.025-1.627 4.476-1.635z" transform="translate(3 3) scale(0.4166666666666667)" fill="#26A5E4"/>
             <rect width="16" height="16" rx="4" class="brand-mark-frame"/>
           </g>
-          <text data-node-label="" data-detail-anchor="" x="1074.2" y="233" class="t-primary" font-size="11" font-weight="600" text-anchor="middle">Report</text>
-          <text data-detail="context" x="1074.2" y="250" class="t-muted" font-size="8" text-anchor="middle">Verified recovery</text>
-        <text data-detail="fine" x="1074.2" y="268" class="t-frontend" font-size="7" text-anchor="middle">Langfuse trace</text>
+          <text data-node-label="" data-detail-anchor="" x="1107.2" y="241" class="t-primary" font-size="11" font-weight="600" text-anchor="middle">Report</text>
+          <text data-detail="context" x="1107.2" y="258" class="t-muted" font-size="8" text-anchor="middle">Verified recovery</text>
         </g>
 
         <!-- Edge labels -->
         <g data-detail="context" data-edge-from="approval" data-edge-to="mcp_gateway" data-edge-label="approved" data-edge-key="0" data-edge-id="e_approved">
-          <rect x="923.9000000000001" y="226" width="48.4" height="14" rx="3" class="c-mask"/>
-          <text x="948.1000000000001" y="236" class="t-backend" font-size="8" text-anchor="middle">approved</text>
+          <rect x="953.9000000000001" y="226" width="48.4" height="14" rx="3" class="c-mask"/>
+          <text x="978.1000000000001" y="236" class="t-backend" font-size="8" text-anchor="middle">approved</text>
         </g>
         <g data-detail="context" data-edge-from="event_in" data-edge-to="router" data-edge-label="incoming event" data-edge-key="1" data-edge-id="e_ingress">
-          <rect x="162" y="100" width="77.2" height="14" rx="3" class="c-mask"/>
-          <text x="200.6" y="110" class="t-backend" font-size="8" text-anchor="middle">incoming event</text>
+          <rect x="168" y="100" width="77.2" height="14" rx="3" class="c-mask"/>
+          <text x="206.6" y="110" class="t-backend" font-size="8" text-anchor="middle">incoming event</text>
         </g>
 
         <g data-detail="context" data-edge-from="toolgate" data-edge-to="mcp_gateway" data-edge-label="read-only / auto" data-edge-key="3" data-edge-id="e_readonly">
-          <rect x="928.4000000000001" y="50" width="86.8" height="14" rx="3" class="c-mask"/>
-          <text x="971.8000000000001" y="60" class="t-muted" font-size="8" text-anchor="middle">read-only / auto</text>
+          <rect x="958.4000000000001" y="50" width="86.8" height="14" rx="3" class="c-mask"/>
+          <text x="1001.8000000000001" y="60" class="t-muted" font-size="8" text-anchor="middle">read-only / auto</text>
         </g>
 
         <g data-detail="context" data-edge-from="runbooks" data-edge-to="hermes" data-edge-label="injected runbook" data-edge-key="5" data-edge-id="e_runbook">
-          <rect x="552.4" y="100" width="86.8" height="14" rx="3" class="c-mask"/>
-          <text x="595.8" y="110" class="t-backend" font-size="8" text-anchor="middle">injected runbook</text>
+          <rect x="570.4" y="100" width="86.8" height="14" rx="3" class="c-mask"/>
+          <text x="613.8" y="110" class="t-backend" font-size="8" text-anchor="middle">injected runbook</text>
         </g>
         <g data-detail="context" data-edge-from="hermes" data-edge-to="toolgate" data-edge-label="tool call" data-edge-key="6" data-edge-id="e_toolcall">
-          <rect x="757.2" y="100" width="53.199999999999996" height="14" rx="3" class="c-mask"/>
-          <text x="783.8000000000001" y="110" class="t-backend" font-size="8" text-anchor="middle">tool call</text>
+          <rect x="781.2" y="100" width="53.199999999999996" height="14" rx="3" class="c-mask"/>
+          <text x="807.8000000000001" y="110" class="t-backend" font-size="8" text-anchor="middle">tool call</text>
         </g>
         <g data-detail="context" data-edge-from="router" data-edge-to="runbooks" data-edge-label="incident alert" data-edge-key="7" data-edge-id="e_triage">
-          <rect x="357.19999999999993" y="100" width="77.2" height="14" rx="3" class="c-mask"/>
-          <text x="395.79999999999995" y="110" class="t-backend" font-size="8" text-anchor="middle">incident alert</text>
+          <rect x="369.19999999999993" y="100" width="77.2" height="14" rx="3" class="c-mask"/>
+          <text x="407.79999999999995" y="110" class="t-backend" font-size="8" text-anchor="middle">incident alert</text>
         </g>
 
         <!-- Legend -->
